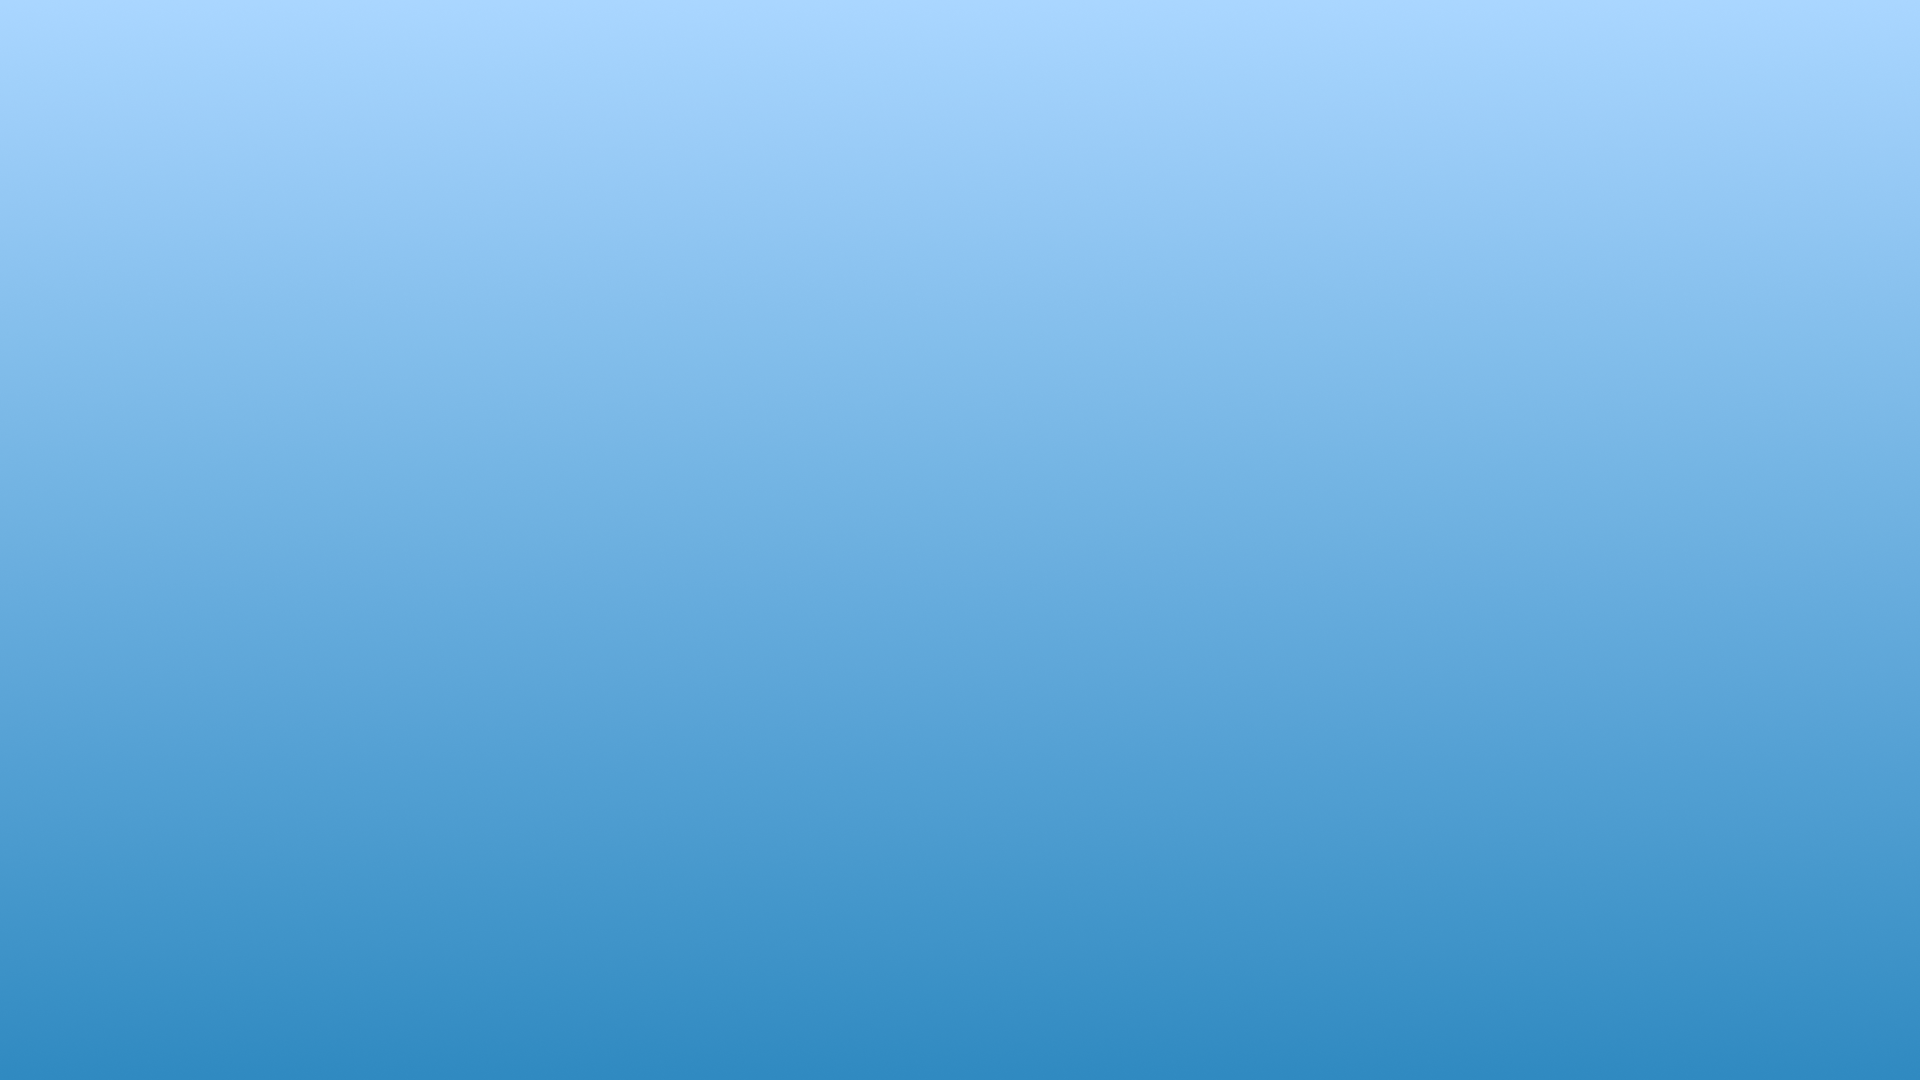
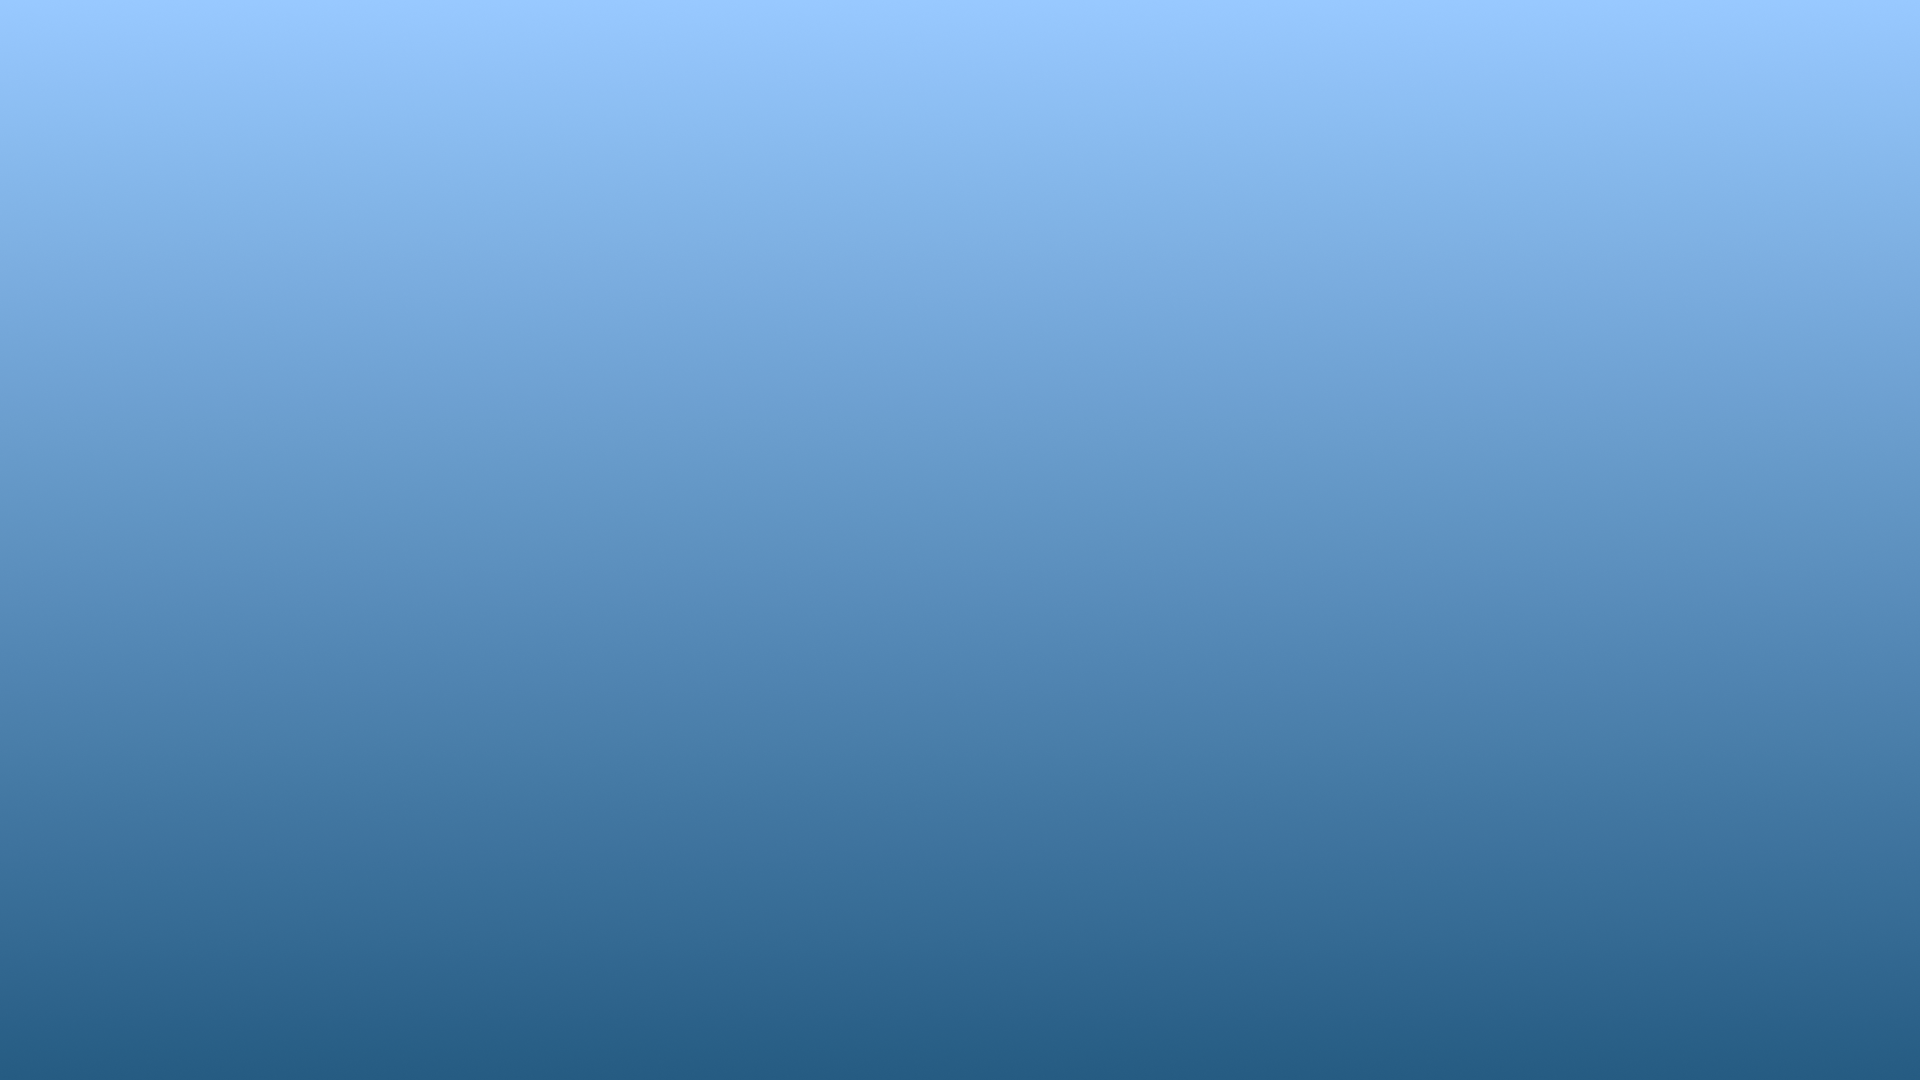
fix: background section 1 - 3

diff --git a/src/Home/Home.css b/src/Home/Home.css
@@ -85,7 +85,8 @@
 
 .Home-wrapper section:nth-child(2) {
     background-image: url('../resources/images/section-1-background.png');
-    @apply relative bg-cover bg-no-repeat;
+    background-size: 100% 100%;
+    @apply relative bg-no-repeat;
 }
 
 .Home-wrapper section:nth-child(2) .section-1-content {
@@ -144,8 +145,9 @@
 }
 
 .Home-wrapper section:nth-child(3) {
-    background-image: linear-gradient(#308ac1, #1f6793);
-    @apply relative bg-cover bg-no-repeat;
+    background-image: url('../resources/images/section-2-background.png');
+    background-size: 100% 100%;
+    @apply relative bg-no-repeat;
 }
 
 .Home-wrapper section:nth-child(3) .rock-left {
@@ -159,8 +161,9 @@
 }
 
 .Home-wrapper section:nth-child(4) {
-    background-image: linear-gradient(#1f6793, #07476f);
-    @apply relative bg-cover bg-no-repeat flex justify-center items-center;
+    background-image: url('../resources/images/section-3-background.png');
+    background-size: 100% 100%;
+    @apply relative bg-no-repeat flex justify-center items-center;
 }
 
 .Home-wrapper section:nth-child(4) .text-title-section {
